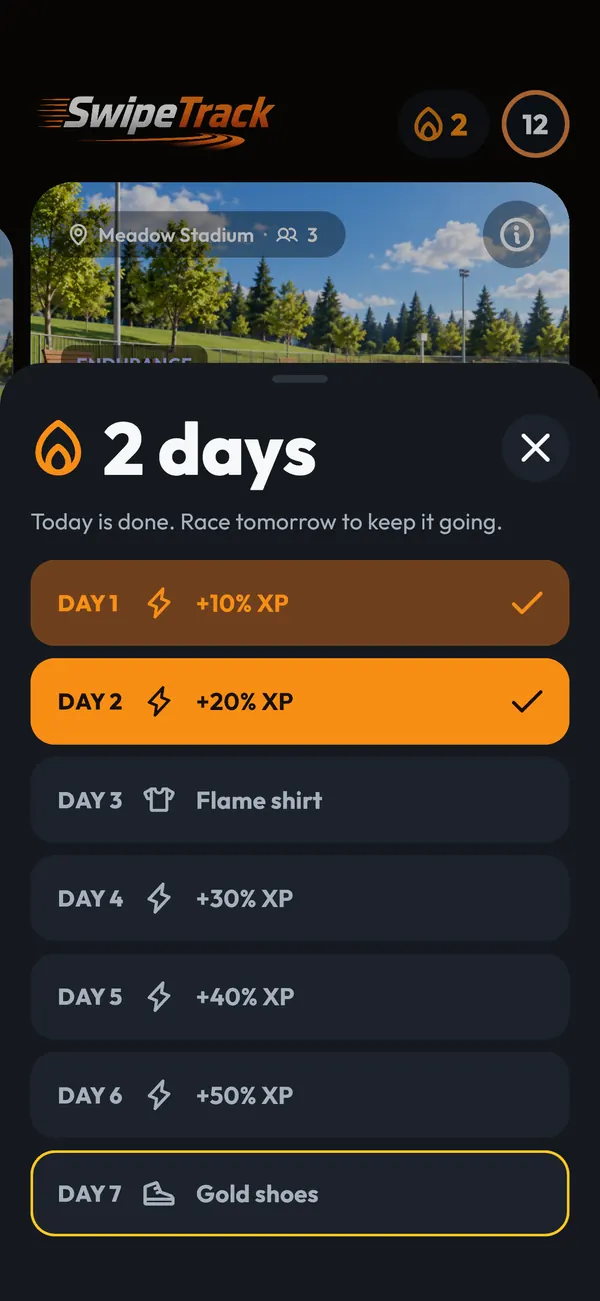
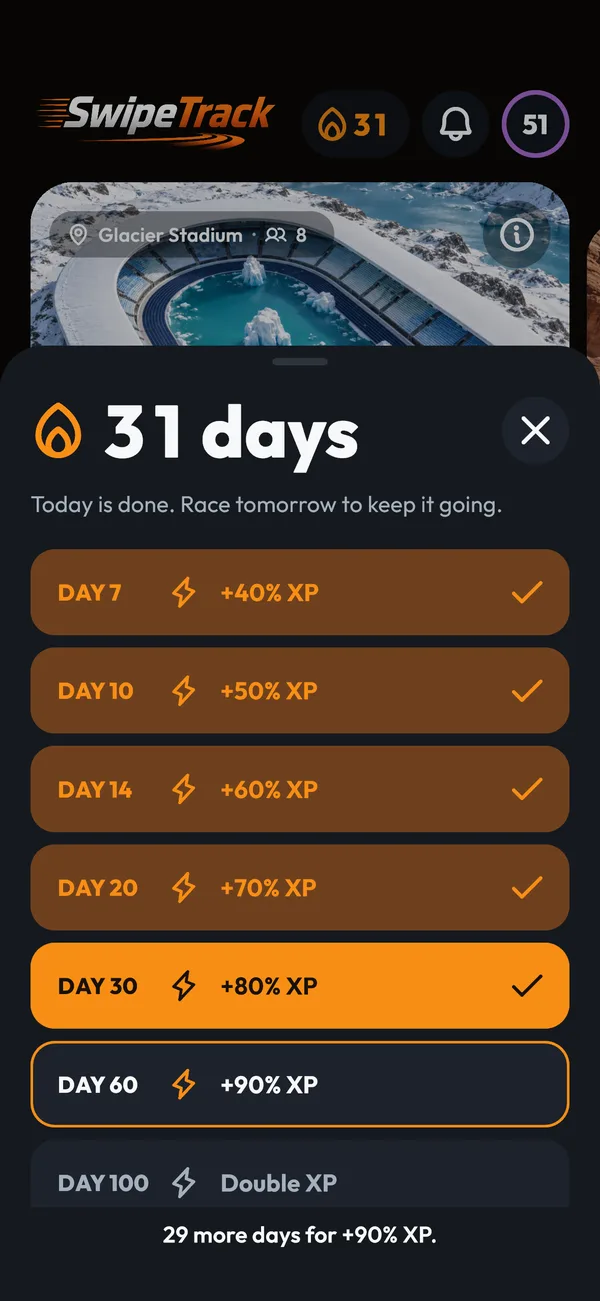
Show the new streak ladder on the landing page

diff --git a/index.html b/index.html
@@ -211,7 +211,7 @@
         </div>
         <div class="split-phones reveal">
           <div class="phone">
-            <img src="img/shots/streak.webp" width="600" height="1301" loading="lazy" alt="The streak screen: your current streak and the XP bonus it gives" />
+            <img src="img/shots/streak.webp" width="600" height="1301" loading="lazy" alt="A 31-day streak: every tier up to +80% XP done, +90% XP next on day 60 and double XP on day 100" />
           </div>
         </div>
       </div>
